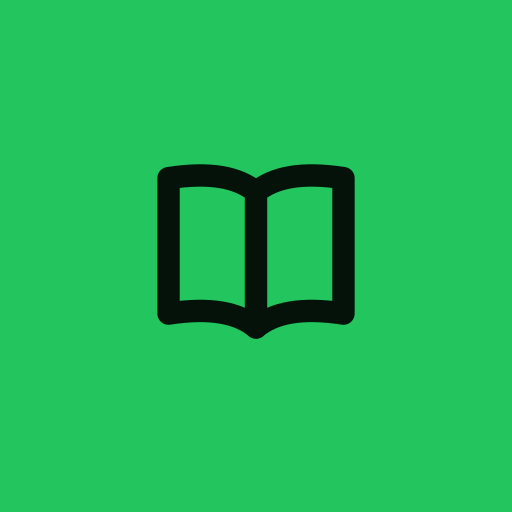
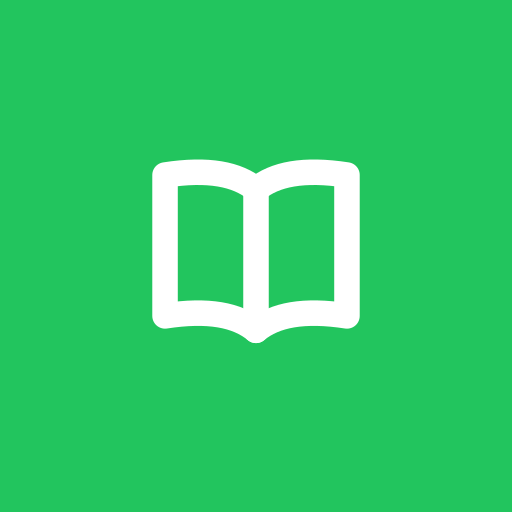
Refresh brand: standalone green book mark + two-tone wordmark
Adopt the new Betbooks logo across the app: replace the badged book mark
with the standalone green open-book, and render the wordmark two-tone —
'Bet' in the text colour, 'books' in brand green — via a self-contained
Logo component used on the header, login, onboarding, reset-password and
legal screens. Regenerate the app icons and favicon as the white book on
the green square to match.

Claude-Session: https://claude.ai/code/session_01TjHNPC6BEEYtBEUGrycC8Z

Changed region(s): [[0.2812, 0.3125, 0.7188, 0.6875]]

diff --git a/client/src/components/BrandMark.jsx b/client/src/components/BrandMark.jsx
@@ -1,10 +1,10 @@
-// The Betbooks logo mark: an open book (your bet "book"/ledger) in the
-// rounded brand badge. Colour comes from the badge (currentColor), so it
-// recolours with the active theme.
+// The Betbooks logo mark: a bold open book (your bet "book"/ledger). Drawn in
+// the brand green via currentColor (set on .brand-mark), standalone with no
+// badge behind it — matching the horizontal Betbooks lockup.
 export default function BrandMark() {
   return (
-    <span className="brand-dot" aria-hidden="true">
-      <svg viewBox="0 0 24 24" width="17" height="17" fill="none" stroke="currentColor" strokeWidth="2.1" strokeLinecap="round" strokeLinejoin="round">
+    <span className="brand-mark" aria-hidden="true">
+      <svg viewBox="0 0 24 24" width="26" height="26" fill="none" stroke="currentColor" strokeWidth="2.3" strokeLinecap="round" strokeLinejoin="round">
         <path d="M12 6.4C10.3 5 7.7 4.5 3.8 5.1v12.7c3.9-0.6 6.5-0.1 8.2 1.3 1.7-1.4 4.3-1.9 8.2-1.3V5.1C16.3 4.5 13.7 5 12 6.4z" />
         <path d="M12 6.4v12.7" />
       </svg>

diff --git a/client/src/styles.css b/client/src/styles.css
@@ -134,6 +134,11 @@ label { display: block; font-size: 12.5px; color: var(--muted); margin-bottom: 6
 }
 .brand { display: flex; align-items: center; gap: 10px; font-family: var(--font-head); font-weight: 800; font-size: 18px; margin-bottom: 22px; padding: 0 6px; }
 .brand-dot { width: 28px; height: 28px; border-radius: 8px; background: var(--primary); display: grid; place-items: center; color: #04120a; font-size: 16px; box-shadow: 0 4px 14px color-mix(in srgb, var(--primary) 45%, transparent); }
+/* Betbooks lockup: standalone green book mark + two-tone wordmark. */
+.brand-logo { display: inline-flex; align-items: center; gap: 9px; }
+.brand-mark { display: inline-grid; place-items: center; color: var(--primary); }
+.wordmark { letter-spacing: -0.01em; }
+.wordmark > span { color: var(--primary); }
 .nav-link {
   display: flex; align-items: center; gap: 11px;
   padding: 11px 12px; border-radius: 11px; color: var(--muted);

diff --git a/client/src/pages/ResetPassword.jsx b/client/src/pages/ResetPassword.jsx
@@ -1,7 +1,7 @@
 import { useState } from 'react';
 import { useSearchParams, useNavigate, Link } from 'react-router-dom';
 import { api } from '../api.js';
-import BrandMark from '../components/BrandMark.jsx';
+import Logo from '../components/Logo.jsx';
 
 export default function ResetPassword() {
   const [params] = useSearchParams();
@@ -33,7 +33,7 @@ export default function ResetPassword() {
     <div className="auth-wrap">
       <div className="auth-card">
         <div className="brand" style={{ justifyContent: 'center', fontSize: 22, marginBottom: 18 }}>
-          <BrandMark /> Betbooks
+          <Logo />
         </div>
         <div className="card">
           <h2 style={{ margin: '0 0 14px', fontSize: 19 }}>Choose a new password</h2>

diff --git a/client/src/pages/Onboarding.jsx b/client/src/pages/Onboarding.jsx
@@ -2,7 +2,7 @@ import { useState } from 'react';
 import { useNavigate } from 'react-router-dom';
 import { api } from '../api.js';
 import { currencySymbol } from '../format.js';
-import BrandMark from '../components/BrandMark.jsx';
+import Logo from '../components/Logo.jsx';
 import { useSettings } from '../context/SettingsContext.jsx';
 
 // One-time questionnaire shown right after sign-up to learn what kind of
@@ -160,7 +160,7 @@ export default function Onboarding() {
     <div className="auth-wrap">
       <div className="onboard">
         <div className="brand" style={{ justifyContent: 'center', marginBottom: 18 }}>
-          <BrandMark /> Betbooks
+          <Logo />
         </div>
 
         <div className="onboard-progress">

diff --git a/client/src/components/LegalLayout.jsx b/client/src/components/LegalLayout.jsx
@@ -1,5 +1,5 @@
 import { Link } from 'react-router-dom';
-import BrandMark from './BrandMark.jsx';
+import Logo from './Logo.jsx';
 
 // Shared layout for the standalone Terms / Privacy pages (public, no session).
 export default function LegalLayout({ title, updated, children }) {
@@ -8,7 +8,7 @@ export default function LegalLayout({ title, updated, children }) {
       <div className="legal">
         <div className="row spread" style={{ marginBottom: 20 }}>
           <Link to="/" className="brand" style={{ fontSize: 20, textDecoration: 'none', color: 'var(--text)' }}>
-            <BrandMark /> Betbooks
+            <Logo />
           </Link>
           <Link to="/" className="btn-ghost btn-sm">← Back</Link>
         </div>

diff --git a/client/src/App.jsx b/client/src/App.jsx
@@ -1,6 +1,6 @@
 import { useEffect } from 'react';
 import { Routes, Route, NavLink, Navigate, useNavigate } from 'react-router-dom';
-import BrandMark from './components/BrandMark.jsx';
+import Logo from './components/Logo.jsx';
 import { useAuth } from './context/AuthContext.jsx';
 import { SettingsProvider, useSettings } from './context/SettingsContext.jsx';
 import { TrackerProvider } from './context/TrackerContext.jsx';
@@ -43,7 +43,7 @@ function Sidebar() {
   return (
     <aside className="sidebar">
       <div className="brand">
-        <BrandMark /> Betbooks
+        <Logo />
       </div>
       {NAV.map((n) => (
         <NavLink key={n.to} to={n.to} end={n.end} className={link}>

diff --git a/client/src/pages/Login.jsx b/client/src/pages/Login.jsx
@@ -1,7 +1,7 @@
 import { useState } from 'react';
 import { Link } from 'react-router-dom';
 import AuthPanel from '../components/AuthPanel.jsx';
-import BrandMark from '../components/BrandMark.jsx';
+import Logo from '../components/Logo.jsx';
 
 const FEATURES = [
   {
@@ -55,7 +55,7 @@ export default function Login() {
       <div className="landing">
         <div className="lp-hero">
           <div className="brand" style={{ justifyContent: 'center', fontSize: 22 }}>
-            <BrandMark /> Betbooks
+            <Logo />
           </div>
           <h1>Know if you’re<br />really winning.</h1>
           <p className="sub">

diff --git a/client/src/components/Logo.jsx b/client/src/components/Logo.jsx
@@ -1,0 +1,14 @@
+import BrandMark from './BrandMark.jsx';
+
+// The full Betbooks lockup: the green book mark + the two-tone wordmark
+// ("Bet" in the current text colour, "books" in brand green). Self-contained
+// (its own flex + gap) so it drops into any header, auth screen or footer and
+// spaces correctly regardless of the parent.
+export default function Logo() {
+  return (
+    <span className="brand-logo">
+      <BrandMark />
+      <span className="wordmark">Bet<span>books</span></span>
+    </span>
+  );
+}
